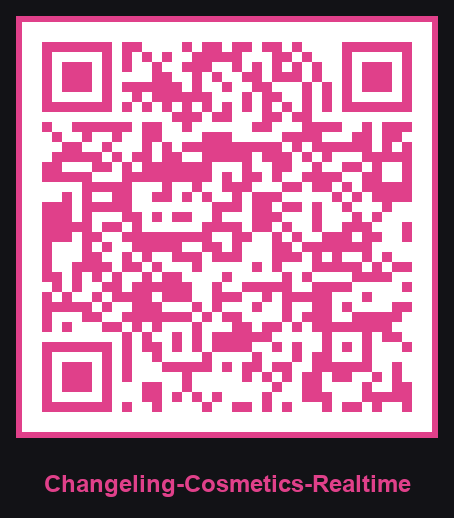
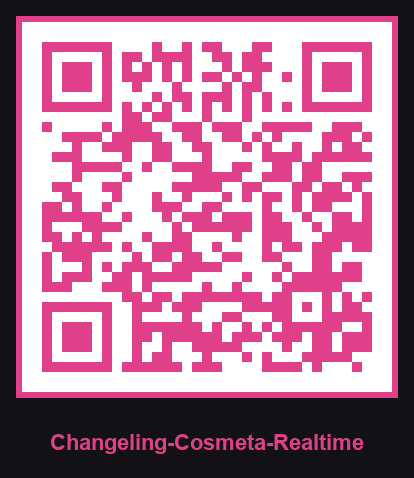
Changeling Cosmetics is now Changeling Cosmeta (the Roman lady's adorner); beards in Tonsor

diff --git a/index.html b/index.html
@@ -3,26 +3,26 @@
 <head>
 <meta charset="utf-8">
 <meta name="viewport" content="width=device-width, initial-scale=1">
-<title>Changeling Cosmetics Realtime: makeup, hair colour and beards, live on a video call</title>
-<meta name="description" content="Changeling Cosmetics' looks, painted on every frame of your webcam (or your phone's camera): hair colour, lips, eyeshadow, eyeliner, blush, brows, smooth skin, beard colour, stubble and a shave, each with its colour and strength, and the editor's brightness, contrast, warmth and vignette, out to the call through OBS Virtual Camera. Part of the Changeling family.">
+<title>Changeling Cosmeta Realtime: makeup, hair colour and beards, live on a video call</title>
+<meta name="description" content="Changeling Cosmeta' looks, painted on every frame of your webcam (or your phone's camera): hair colour, lips, eyeshadow, eyeliner, blush, brows, smooth skin, beard colour, stubble and a shave, each with its colour and strength, and the editor's brightness, contrast, warmth and vignette, out to the call through OBS Virtual Camera. Part of the Changeling family.">
 <meta name="color-scheme" content="dark">
-<meta property="og:title" content="Changeling Cosmetics Realtime">
+<meta property="og:title" content="Changeling Cosmeta Realtime">
 <meta property="og:description" content="Makeup, hair colour and beards, live on a video call.">
 <meta property="og:image" content="assets/realtime_samples.jpg">
 <link rel="icon" href="https://cursedprograms.github.io/Changeling-Studio/site/icon.svg">
 <link rel="stylesheet" href="https://cursedprograms.github.io/Changeling-Studio/site/changeling.css">
 </head>
-<body data-changeling="Cosmetics Realtime">
+<body data-changeling="Cosmeta Realtime">
 
 <header>
   <div class="wrap">
     <img src="https://cursedprograms.github.io/Changeling-Studio/site/logo.svg" alt="The Changeling logo" width="110" height="110">
     <div class="eyebrow">Changeling</div>
-    <h1>Cosmetics Realtime</h1>
+    <h1>Cosmeta Realtime</h1>
     <p class="tagline">Makeup, hair colour and beards, live on a video call</p>
-    <p class="lede">Changeling Cosmetics' looks, painted on every frame of your webcam (or your phone's camera): hair colour, lips, eyeshadow, eyeliner, blush, brows, smooth skin, beard colour, stubble and a shave, each with its colour and strength, and the editor's brightness, contrast, warmth and vignette, out to the call through OBS Virtual Camera.</p>
+    <p class="lede">Changeling Cosmeta' looks, painted on every frame of your webcam (or your phone's camera): hair colour, lips, eyeshadow, eyeliner, blush, brows, smooth skin, beard colour, stubble and a shave, each with its colour and strength, and the editor's brightness, contrast, warmth and vignette, out to the call through OBS Virtual Camera.</p>
     <div class="cta">
-      <a class="btn primary" href="https://github.com/CursedPrograms/Changeling-Cosmetics-Realtime">View on GitHub</a>
+      <a class="btn primary" href="https://github.com/CursedPrograms/Changeling-Cosmeta-Realtime">View on GitHub</a>
       <a class="btn" href="#use">Use it</a>
       <a class="btn" href="#family">The Changeling family</a>
     </div>
@@ -44,7 +44,7 @@
     <h2>Use it</h2>
     <ol class="steps">
       <li>Python 3.9 - 3.12, an NVIDIA GPU (4 GB is enough), a webcam; OBS for its Virtual Camera.</li>
-      <li>Start <code>run.bat</code> (or <code>run.ps1</code>, <code>run.sh</code>). It fetches Changeling Cosmetics and Changeling CopyCat Realtime next to it if they're missing.</li>
+      <li>Start <code>run.bat</code> (or <code>run.ps1</code>, <code>run.sh</code>). It fetches Changeling Cosmeta and Changeling CopyCat Realtime next to it if they're missing.</li>
       <li>Switch on a look, pick its colour and strength; in the call, pick OBS Virtual Camera. <code>run_server.bat</code> uses your phone's camera.</li>
     </ol>
     <figure class="sheet"><img src="assets/window.png" alt="The window" loading="lazy"></figure>
@@ -53,7 +53,7 @@
   <section id="why">
     <h2>How it's live</h2>
     <p>BiSeNet reads the face on the graphics card in a few hundredths of a second, Face Mesh follows it, and Changeling
-      Cosmetics' own looks are painted around the face only: about 13 frames a second at 1280 x 720 on a 6 GB card.</p>
+      Cosmeta's own looks are painted around the face only: about 13 frames a second at 1280 x 720 on a 6 GB card.</p>
   </section>
 
   <section id="qr">

diff --git a/cosmetics_live.py b/cosmetics_live.py
@@ -1,14 +1,14 @@
-"""cosmetics_live.py - Changeling Cosmetics Realtime: makeup, hair colour and beards, live on your webcam.
+"""cosmetics_live.py - Changeling Cosmeta Realtime: makeup, hair colour and beards, live on your webcam.
 
     run.bat                  the window (the webcam)
     run.bat --phone          your phone's camera instead (a QR code in the window; CopyCat Realtime's phone page)
     run.bat --source me.jpg  a photo or video instead of the webcam (for trying it out)
 
-Every frame: the face is read (BiSeNet on the graphics card, Face Mesh following it), and Changeling Cosmetics'
+Every frame: the face is read (BiSeNet on the graphics card, Face Mesh following it), and Changeling Cosmeta'
 own looks are painted on (the same code as for photos), then the editor's brightness, contrast, warmth, vignette...
 Out to the call through OBS Virtual Camera. It runs in Changeling CopyCat Realtime's environment and uses
-Changeling Cosmetics' code: both next to this folder (as in Changeling Studio), or in COPYCAT_REALTIME_DIR and
-CHANGELING_COSMETICS_DIR.
+Changeling Cosmeta' code: both next to this folder (as in Changeling Studio), or in COPYCAT_REALTIME_DIR and
+CHANGELING_COSMETA_DIR.
 """
 import argparse
 import os
@@ -26,7 +26,7 @@ from PIL import Image, ImageTk
 
 HERE = os.path.dirname(os.path.abspath(__file__))
 STUDIO = os.path.dirname(HERE)
-COSMETICS = os.environ.get("CHANGELING_COSMETICS_DIR") or os.path.join(STUDIO, "Changeling-Cosmetics")
+COSMETICS = os.environ.get("CHANGELING_COSMETA_DIR") or os.path.join(STUDIO, "Changeling-Cosmeta")
 COPYCAT = os.environ.get("COPYCAT_REALTIME_DIR") or os.path.join(STUDIO, "Changeling-CopyCat-Realtime")
 sys.path.insert(0, COSMETICS)
 import torch  # noqa: E402,F401 - first, so onnxruntime and MediaPipe find CUDA's DLLs
@@ -36,8 +36,8 @@ from cosmetics.live import Live  # noqa: E402
 from cosmetics.looks import (BLUSH_COLOURS, BROW_COLOURS, HAIR_COLOURS, LINER_COLOURS, LIP_COLOURS,  # noqa: E402
                              SHADOW_COLOURS, Look)
 
-NAME = "Changeling Cosmetics Realtime"
-GITHUB = "https://github.com/CursedPrograms/Changeling-Cosmetics-Realtime"
+NAME = "Changeling Cosmeta Realtime"
+GITHUB = "https://github.com/CursedPrograms/Changeling-Cosmeta-Realtime"
 KOFI = "https://ko-fi.com/cursedentertainment"
 PINK = "#e0408a"
 IMAGE_EXT = (".png", ".jpg", ".jpeg", ".webp", ".bmp", ".jfif")
@@ -145,7 +145,7 @@ class Window:
             ctk.CTkLabel(side, image=ctk.CTkImage(Image.open(logo), size=(56, 56)), text="").pack(anchor="w", padx=12, pady=(10, 0))
         ctk.CTkLabel(side, text="CHANGELING", text_color="gray55",
                      font=ctk.CTkFont(size=11, weight="bold")).pack(anchor="w", padx=12, pady=(12, 0))
-        ctk.CTkLabel(side, text="Cosmetics Realtime", font=ctk.CTkFont(size=24, weight="bold"),
+        ctk.CTkLabel(side, text="Cosmeta Realtime", font=ctk.CTkFont(size=24, weight="bold"),
                      text_color=PINK).pack(anchor="w", padx=12)
         ctk.CTkLabel(side, text="makeup, hair colour and beards, live on a call", text_color="gray60",
                      wraplength=290, justify="left").pack(anchor="w", padx=12)

diff --git a/README.md b/README.md
@@ -9,11 +9,11 @@
 
 <p align="center"><img src="https://raw.githubusercontent.com/CursedPrograms/Changeling-Studio/main/site/logo.png" alt="Changeling" width="120"></p>
 
-# Changeling Cosmetics Realtime
+# Changeling Cosmeta Realtime
 
-**Website:** https://cursedprograms.github.io/Changeling-Cosmetics-Realtime/
+**Website:** https://cursedprograms.github.io/Changeling-Cosmeta-Realtime/
 
-Makeup, hair colour and beards, live on a video call. Changeling Cosmetics' looks, painted on every frame of your webcam (or your phone's camera): hair colour, lips, eyeshadow, eyeliner, blush, brows, smooth skin, beard colour, stubble and a shave, each with its colour and strength, and the editor's brightness, contrast, warmth and vignette, out to the call through OBS Virtual Camera.
+Makeup, hair colour and beards, live on a video call. Changeling Cosmeta' looks, painted on every frame of your webcam (or your phone's camera): hair colour, lips, eyeshadow, eyeliner, blush, brows, smooth skin, beard colour, stubble and a shave, each with its colour and strength, and the editor's brightness, contrast, warmth and vignette, out to the call through OBS Virtual Camera.
 
 ![Before and after: three people with live looks](assets/realtime_samples.jpg)
 
@@ -23,19 +23,19 @@ Makeup, hair colour and beards, live on a video call. Changeling Cosmetics' look
 [Tiresias](https://github.com/CursedPrograms/Changeling-Tiresias) (gender) ·
 [Chronos](https://github.com/CursedPrograms/Changeling-Chronos) (age) ·
 [Natio](https://github.com/CursedPrograms/Changeling-Natio) (where in the world) ·
-[Cosmetics](https://github.com/CursedPrograms/Changeling-Cosmetics) (makeup, hair, beards) ·
+[Cosmeta](https://github.com/CursedPrograms/Changeling-Cosmeta) (makeup, hair, beards) ·
 [Echo](https://github.com/CursedPrograms/Changeling-Echo) (voices) ·
 [Tonsor](https://github.com/CursedPrograms/Changeling-Tonsor) (hairstyles) ·
 realtime: [Tiresias](https://github.com/CursedPrograms/Changeling-Tiresias-Realtime) ·
 [Chronos](https://github.com/CursedPrograms/Changeling-Chronos-Realtime) ·
-[Natio](https://github.com/CursedPrograms/Changeling-Natio-Realtime) · **Cosmetics**.*
+[Natio](https://github.com/CursedPrograms/Changeling-Natio-Realtime) · **Cosmeta**.*
 
 ## How it's live
 
-[Changeling Cosmetics](https://github.com/CursedPrograms/Changeling-Cosmetics) reads a photo with a SegFormer face
+[Changeling Cosmeta](https://github.com/CursedPrograms/Changeling-Cosmeta) reads a photo with a SegFormer face
 parser: careful, but about a second a picture. Live, the face is read with BiSeNet on the graphics card (the same
 19 labels, a few hundredths of a second, twice: a wide square for the hair and a close one for the face's parts),
-and Face Mesh follows the face from frame to frame. The looks are Cosmetics' own code, painted only in the box
+and Face Mesh follows the face from frame to frame. The looks are Cosmeta's own code, painted only in the box
 around the face and hair, at most 420 pixels across, with only the change scaled back up. Reading the next frame
 and painting the last run side by side. Measured here (a 6 GB card, five looks on, long hair): about 13 frames a
 second at 1280 x 720.
@@ -45,7 +45,7 @@ second at 1280 x 720.
 1. Python 3.11, an NVIDIA GPU, a webcam; [OBS](https://obsproject.com/) for its Virtual Camera.
 2. Start `run.bat` (or `run.ps1`, `run.sh`). It runs in
    [Changeling CopyCat Realtime](https://github.com/CursedPrograms/Changeling-CopyCat-Realtime)'s environment with
-   Changeling Cosmetics' code, both next to this folder as in
+   Changeling Cosmeta' code, both next to this folder as in
    [Changeling Studio](https://github.com/CursedPrograms/Changeling-Studio); missing ones are cloned there, and
    CopyCat Realtime is set up the first time. BiSeNet's weights (50 MB) are taken from `F:\AIModels\face` or
    HairFastGAN's models if they're on the PC, else downloaded once.
@@ -63,7 +63,7 @@ second at 1280 x 720.
 
 - The hair colour follows the parser's hair outline: on fine, flyaway or braided hair a thin light edge can show
   between the hair and the background.
-- Beard colour and the shave work best on a beard you have; for a new beard style, Changeling Cosmetics (photos) has
+- Beard colour and the shave work best on a beard you have; for a new beard style, Changeling Cosmeta (photos) has
   AetherCanvas AI's edits.
 
 ## Licenses
@@ -71,7 +71,7 @@ second at 1280 x 720.
 MIT. BiSeNet face parsing is [zllrunning/face-parsing.PyTorch](https://github.com/zllrunning/face-parsing.PyTorch)
 (MIT).
 
-<p align="center"><img src="assets/site-qr.png" alt="QR code to the Changeling-Cosmetics-Realtime website" width="200"></p>
+<p align="center"><img src="assets/site-qr.png" alt="QR code to the Changeling-Cosmeta-Realtime website" width="200"></p>
 
 ---
 
